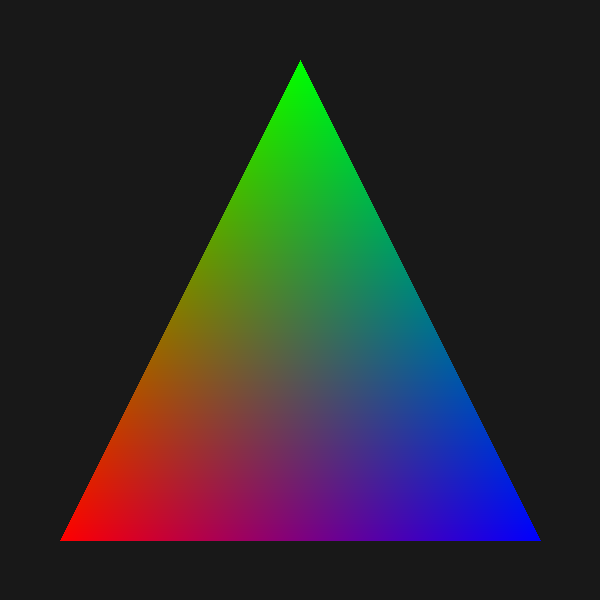
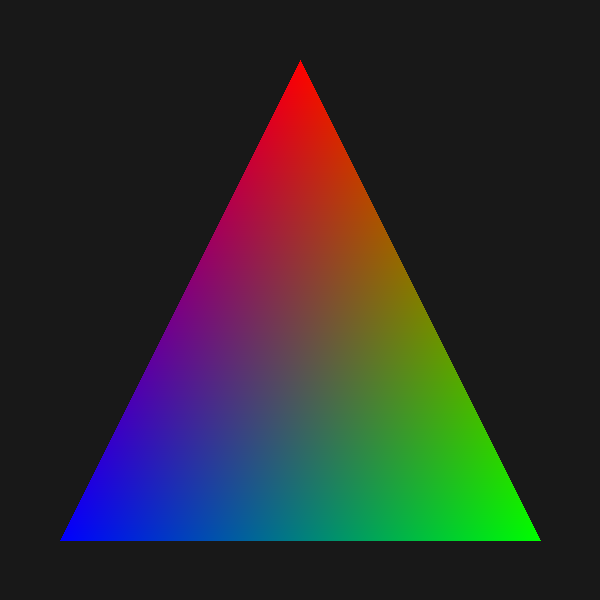
Color orders bug fixed

diff --git a/main.c b/main.c
@@ -19,6 +19,8 @@ int canvas[HEIGHT * WIDTH];
 #define MAX(a, b) (a > b ? a : b)
 #define MIN(a, b) (a < b ? a : b)
 
+#define CLAMP(x, a, b) ((x) < (a) ? (a) : ((x) > (b) ? (b) : (x)))
+
 typedef struct {
   int x, y;
 } vec2;
@@ -60,27 +62,32 @@ void rasterize_triangle(Vertex triangle[3]) {
   for (int y = min_y; y <= max_y; ++y) {
     for (int x = min_x; x <= max_x; ++x) {
       vec2 p = {x, y};
-      int w0 = cross_edge(v0, v1, p);
-      int w1 = cross_edge(v1, v2, p);
-      int w2 = cross_edge(v2, v0, p);
-
-      float r0 = w0 / area;
-      float r1 = w1 / area;
-      float r2 = w2 / area;
+      int w0 = cross_edge(v1, v2, p);
+      int w1 = cross_edge(v2, v0, p);
+      int w2 = cross_edge(v0, v1, p);
 
       if ((w0 | w1 | w2) > 0) {
-        int index = y * WIDTH + x;
+        float r0 = w0 / area;
+        float r1 = w1 / area;
+        float r2 = w2 / area;
 
         int r = r0 * triangle[0].color.r + r1 * triangle[1].color.r + r2 * triangle[2].color.r;
         int g = r0 * triangle[0].color.g + r1 * triangle[1].color.g + r2 * triangle[2].color.g;
         int b = r0 * triangle[0].color.b + r1 * triangle[1].color.b + r2 * triangle[2].color.b;
         int a = 0xFF;
 
+        // Clamp to 0–255
+        r = CLAMP(r, 0, 255);
+        g = CLAMP(g, 0, 255);
+        b = CLAMP(b, 0, 255);
+
         int color = 0;
-        color = (color | a) << 8;
-        color = (color | b) << 8;
-        color = (color | g) << 8;
-        color = (color | r);
+        color = (color | (a & 0xFF)) << 8;
+        color = (color | (b & 0xFF)) << 8;
+        color = (color | (g & 0xFF)) << 8;
+        color = (color | (r & 0xFF));
+
+        int index = y * WIDTH + x;
         canvas[index] = color;
       }
     }
